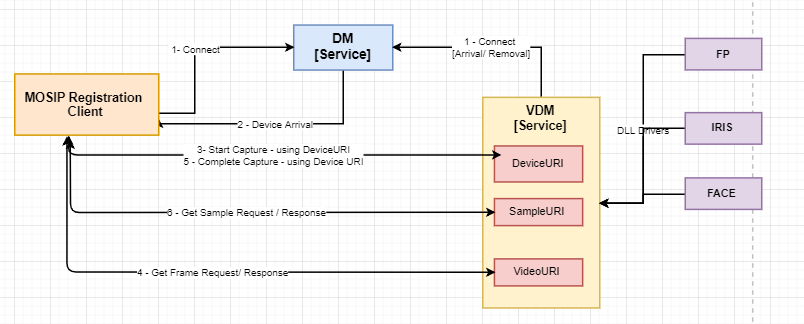
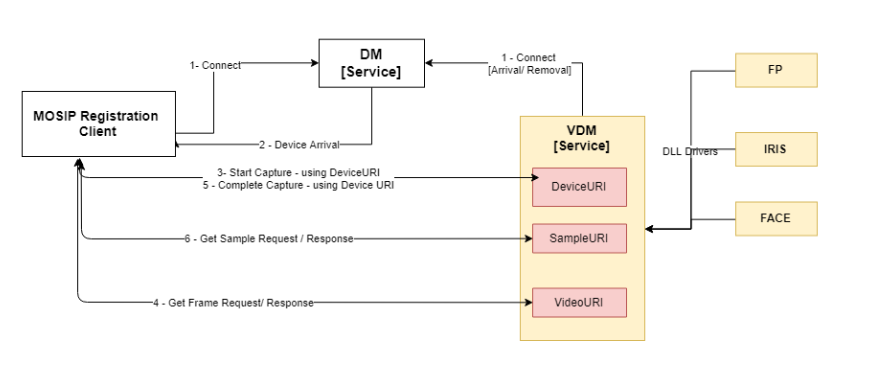
MOS-15307 : DM design updated.

Changed region(s): [[0.0, 0.0617, 0.9639, 0.9568]]

diff --git a/docs/design/registration/registration-bio-device-integration.md b/docs/design/registration/registration-bio-device-integration.md
@@ -36,7 +36,11 @@ The DM service provided by the UID, is responsible for the following:
    - The VDM uses the same Socket for all the underlying devices communication. 
    - The application uses the same Socket for all the communication with DM. 
 
-**Device Arrival Sequence:**  
+
+**Device Arrival Class Diagram:**  
+![Device Arrival Sequence Flow](_images/bio-device-arrival-class-flow.png)  
+
+**Device Arrival Sequence Diagram:**  
 ![Device Arrival Sequence Flow](_images/bio-device-arrival-seq-flow.png)  
 
    
